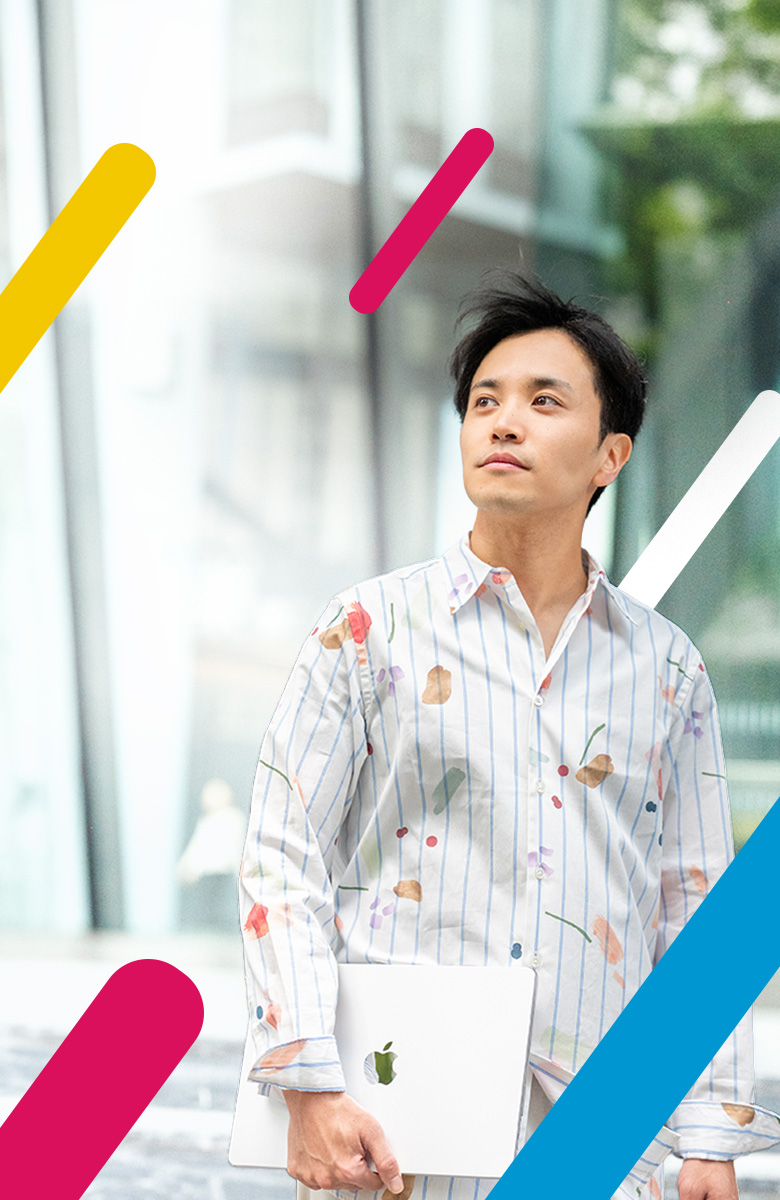
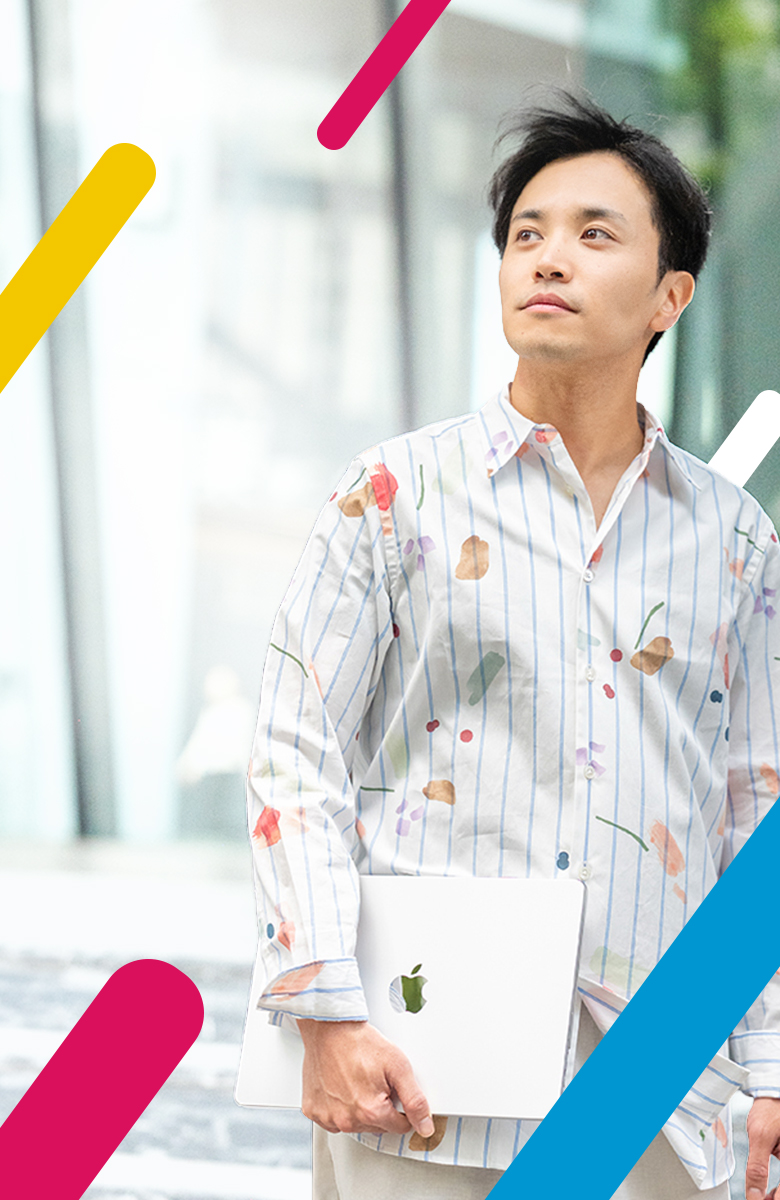
update sp-fv.jpg and bump cache version to v2

diff --git a/index.html b/index.html
@@ -102,7 +102,7 @@
 
     /* ===== MOBILE ONLY BACKGROUNDS (portrait) ===== */
     @media (orientation: portrait) and (max-width: 767px) {
-      #top { background: url('images/sp-fv.jpg') center/cover no-repeat !important; background-color: #0f172a; }
+      #top { background: url('images/sp-fv.jpg?v=2') center/cover no-repeat !important; background-color: #0f172a; }
       #hero-img { display: none !important; }
       #concept { background: url('images/sp-bg.jpg') center/cover no-repeat !important; }
       #service { background: url('images/sp-bg.jpg') center/cover no-repeat !important; }